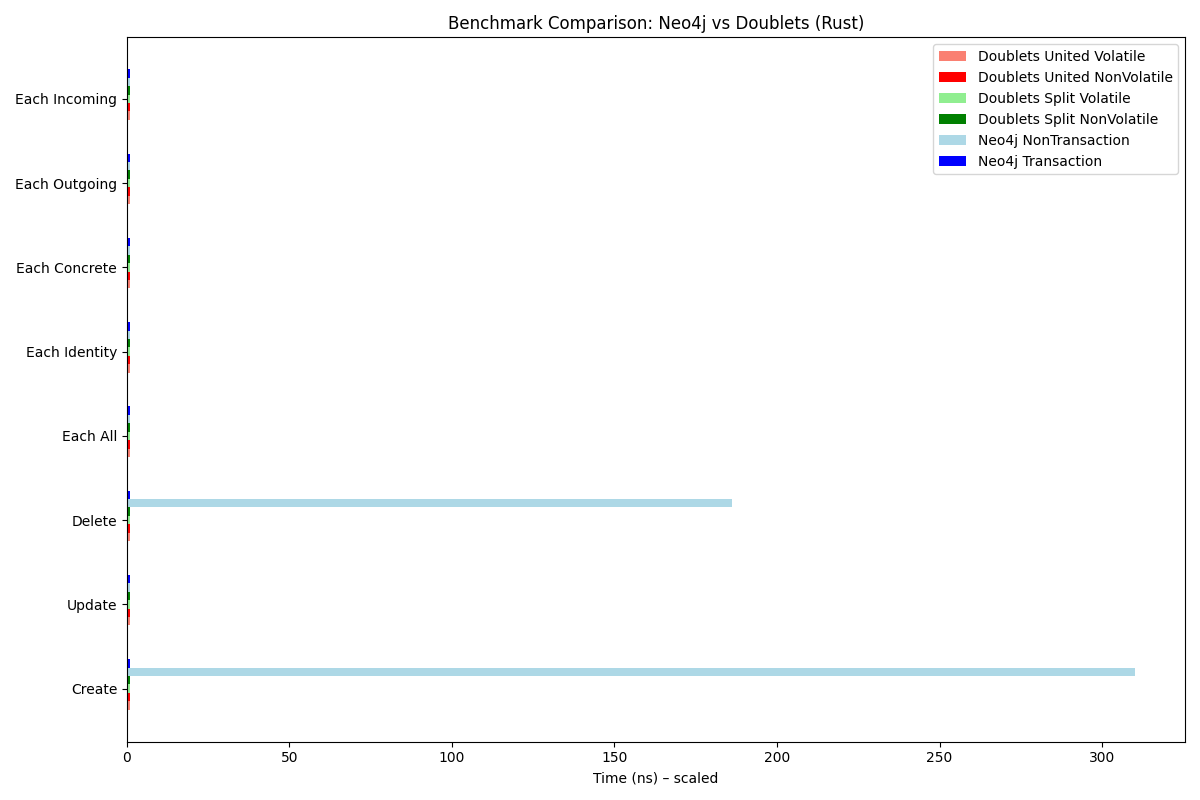
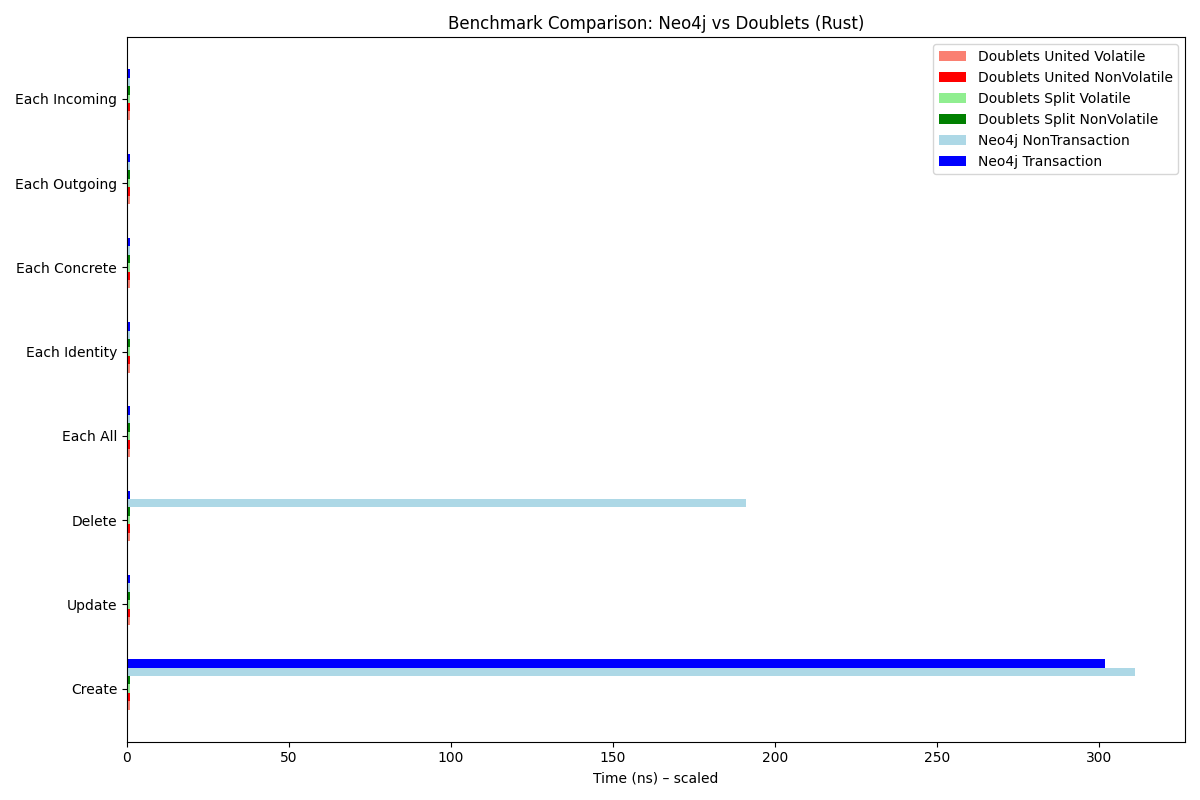
Update benchmark results

diff --git a/README.md b/README.md
@@ -32,9 +32,9 @@ The results below represent the amount of time (ns) the operation takes per iter
 
 | Operation     | Doublets United Volatile | Doublets United NonVolatile | Doublets Split Volatile | Doublets Split NonVolatile | Neo4j NonTransaction | Neo4j Transaction |
 |---------------|--------------------------|-----------------------------|-------------------------|----------------------------|----------------------|-------------------|
-| Create        | 97789 (0.3x faster)      | 100438 (0.3x faster)        | 86465 (0.4x faster)     | 83558 (0.4x faster)        | 3107850791           | 31740             |
+| Create        | 96754 (31302.3x faster)  | 99047 (30577.7x faster)     | 84563 (35815.0x faster) | 84223 (35959.6x faster)    | 3112975781           | 3028627101        |
 | Update        | N/A                      | N/A                         | N/A                     | N/A                        | N/A                  | N/A               |
-| Delete        | N/A                      | N/A                         | N/A                     | N/A                        | 1868497988           | N/A               |
+| Delete        | N/A                      | N/A                         | N/A                     | N/A                        | 1913172623           | N/A               |
 | Each All      | N/A                      | N/A                         | N/A                     | N/A                        | N/A                  | N/A               |
 | Each Identity | N/A                      | N/A                         | N/A                     | N/A                        | N/A                  | N/A               |
 | Each Concrete | N/A                      | N/A                         | N/A                     | N/A                        | N/A                  | N/A               |
